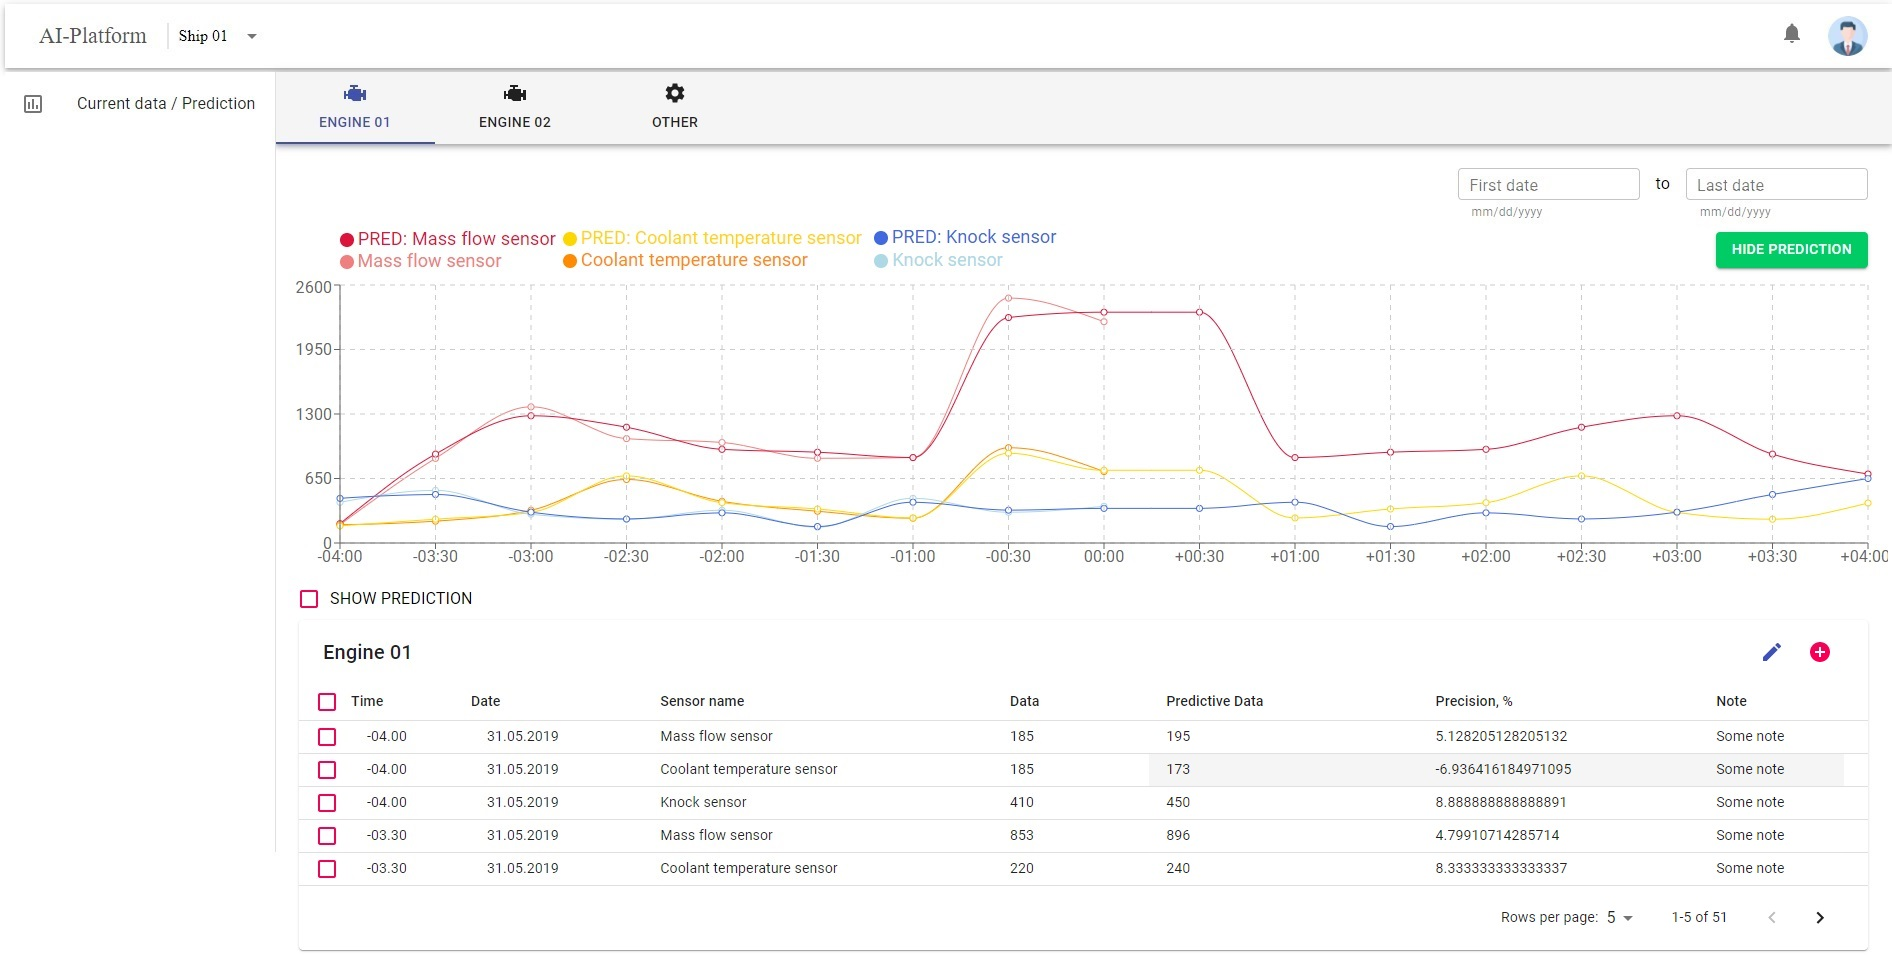
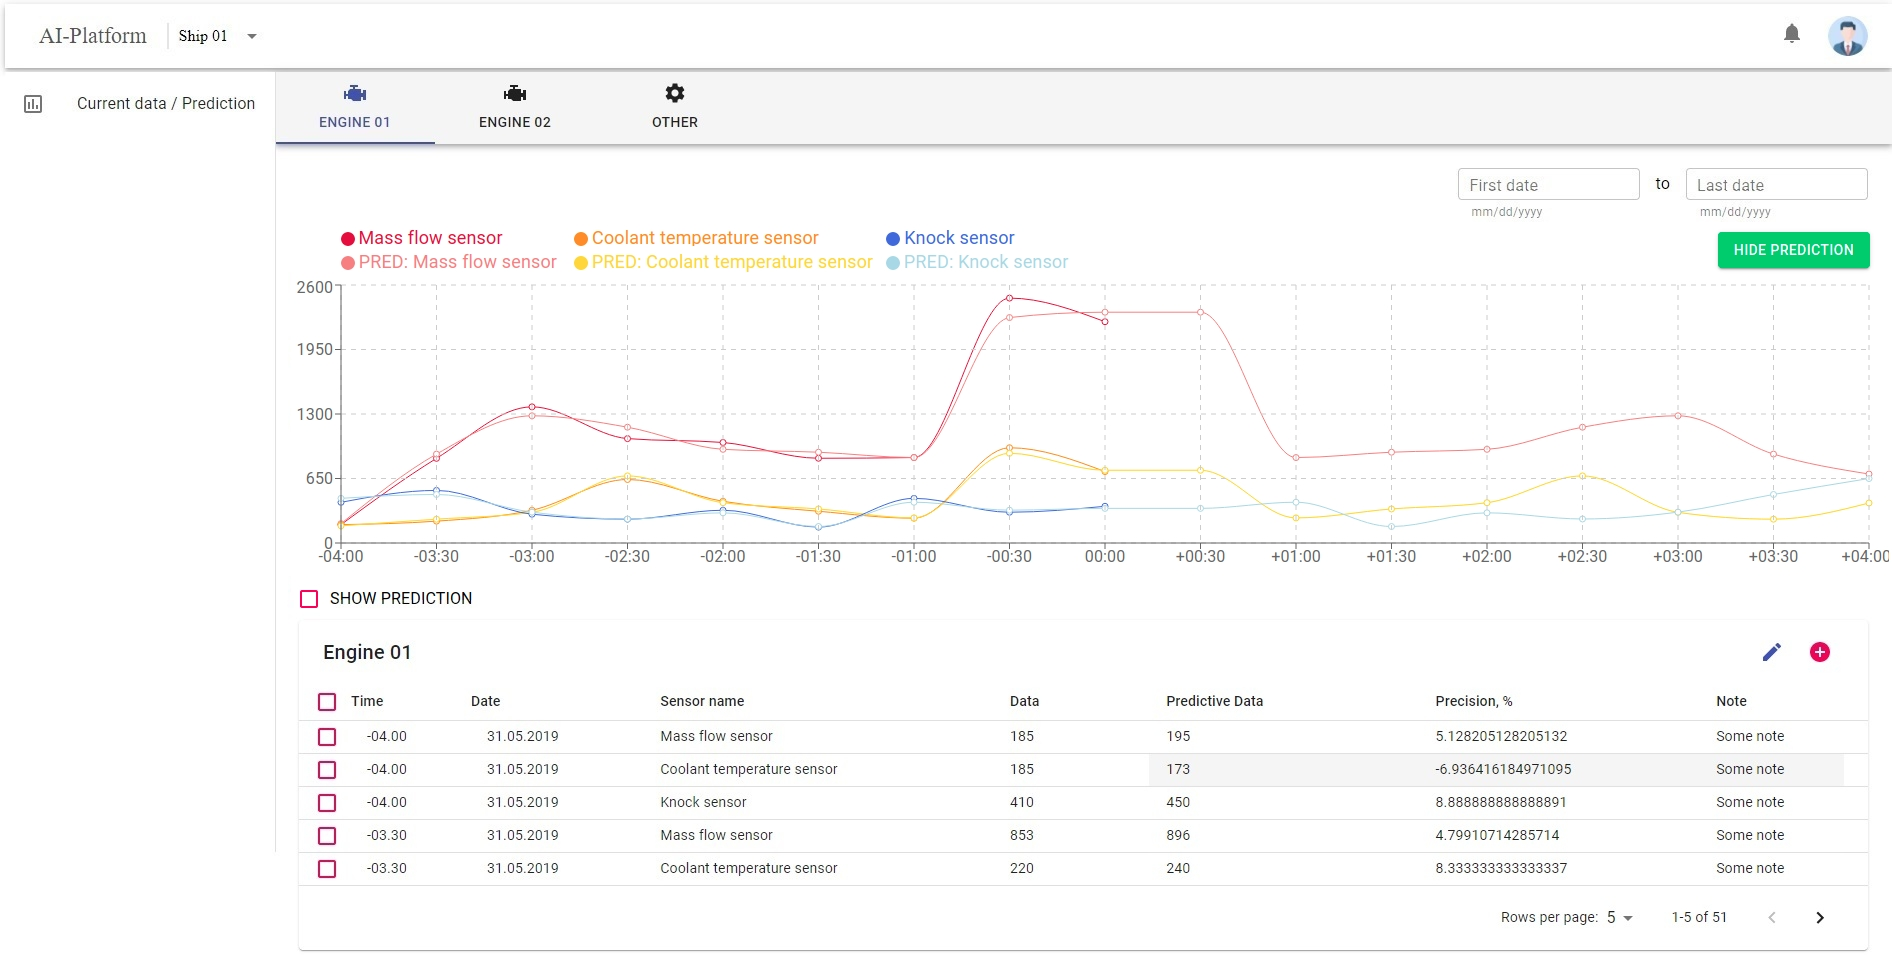
maket is worked

diff --git a/src/components/Main/Graph.js b/src/components/Main/Graph.js
@@ -57,7 +57,7 @@ const data = [
 
 const renderColorfulLegendText = (value, entry) => {
 	const {color} = entry;
-	console.log(value)
+	// console.log(value)
 
 	return <span
 		style={{color}}
@@ -69,25 +69,33 @@ const renderColorfulLegendText = (value, entry) => {
 
 export const Graph = () => (
 	<LineChart
-		label={"123"}
 		width={1608}
 		height={300}
 		data={data}
 		margin={{top: -20, right: 20, bottom: 5, left: 0}}
 	>
-		<Line type="monotone" dataKey={MFS} stroke="#F08080" />
-		<Line type="monotone" dataKey={MFS_PRED} stroke="#DC143C" />
+		{/*<Line type="monotone" dataKey={MFS} stroke="#F08080" />*/}
+		{/*<Line type="monotone" dataKey={MFS_PRED} stroke="#DC143C" />*/}
 
-		<Line type="monotone" dataKey={CTS} stroke="#FF8C00" />
-		<Line type="monotone" dataKey={CTS_PRED} stroke="#FFD700" />
+		{/*<Line type="monotone" dataKey={CTS} stroke="#FF8C00" />*/}
+		{/*<Line type="monotone" dataKey={CTS_PRED} stroke="#FFD700" />*/}
 
-		<Line type="monotone" dataKey={KS} stroke="#ADD8E6" />
-		<Line type="monotone" dataKey={KS_PRED} stroke="#4169E1" />
+		{/*<Line type="monotone" dataKey={KS} stroke="#ADD8E6" />*/}
+		{/*<Line type="monotone" dataKey={KS_PRED} stroke="#4169E1" />*/}
 
 
-		{/*<Line type="monotone" dataKey={MFS} stroke="#DC143C"/>*/}
-		{/*<Line type="monotone" dataKey={CTS} stroke="#FFD700"/>*/}
-		{/*<Line type="monotone" dataKey={KS} stroke="#4169E1"/>*/}
+		<Line type="monotone" dataKey={MFS} stroke="#DC143C"/>
+		<Line type="monotone" dataKey={MFS_PRED} stroke="#F08080"/>
+
+
+		<Line type="monotone" dataKey={CTS} stroke="#FF8C00"/>
+		<Line type="monotone" dataKey={CTS_PRED} stroke="#FFD700"/>
+
+
+		<Line type="monotone" dataKey={KS} stroke="#4169E1"/>
+		<Line type="monotone" dataKey={KS_PRED} stroke="#ADD8E6"/>
+
+
 		<CartesianGrid stroke="#ccc" strokeDasharray="5 5"/>
 		<XAxis dataKey="t"/>
 		<YAxis/>

diff --git a/src/components/Main/Prediction/DateRangePred.js b/src/components/Main/Prediction/DateRangePred.js
@@ -1,0 +1,54 @@
+import * as React from 'react';
+import TextField from '@material-ui/core/TextField';
+import DateRangePicker from '@material-ui/lab/DateRangePicker';
+import AdapterDateFns from '@material-ui/lab/AdapterDateFns';
+import LocalizationProvider from '@material-ui/lab/LocalizationProvider';
+import Box from '@material-ui/core/Box';
+import {makeStyles} from "@material-ui/core/styles";
+import {useRef} from "react";
+
+const useStyles = makeStyles((theme) => ({
+	test: {
+		background: "red",
+		fontSize: 42,
+		// top: 0,
+		// padding: 0,
+	}
+}));
+
+export const DateRangePred = () => {
+	const [value, setValue] = React.useState([null, null]);
+	const startText = "First dates";
+	const classes = useStyles();
+	return (
+		<LocalizationProvider dateAdapter={AdapterDateFns}>
+			<DateRangePicker
+
+				// startText="First date"
+				startText={startText}
+				endText="Last date"
+				calendars={3}
+				value={value}
+
+				onChange={(newValue) => {
+					setValue(newValue);
+				}}
+				renderInput={(startProps, endProps) => {
+					return (
+						<div style={{display: "flex",}}>
+							<TextField {...startProps} inputProps={{style: {fontSize: 28}}} />
+							<Box sx={{mx: 2}}> to </Box>
+							<TextField {...endProps} />
+						</div>
+
+						// <React.Fragment>
+						// 	<TextField style={{paddingRight: 0}} {...startProps} />
+						// 	<Box sx={{ mx: 2 }}> to </Box>
+						// 	<TextField {...endProps} />
+						// </React.Fragment>
+					)
+				}}
+			/>
+		</LocalizationProvider>
+	);
+}

diff --git a/src/components/Main/Prediction/TabsPred.js b/src/components/Main/Prediction/TabsPred.js
@@ -16,11 +16,11 @@ import Box from '@material-ui/core/Box';
 import {mdiEngine} from '@mdi/js';
 import Icon from "@mdi/react";
 import SettingsIcon from '@material-ui/icons/Settings';
-import {DateRangeR} from "../DateRange";
 import Button from '@material-ui/core/Button';
 import {Graph} from "../Graph";
 import {Checkbox, FormControlLabel} from "@material-ui/core";
 import {DevicesTablePred} from "./DevicesTablePred";
+import {DateRangePred} from "./DateRangePred";
 
 const EngineIcon = () => (
 	<Icon path={mdiEngine}
@@ -74,6 +74,10 @@ const useStyles = makeStyles((theme) => ({
 		backgroundColor: theme.palette.background.paper,
 		margin: "4px 0px 0px 270px",
 	},
+
+	test: {
+		background: "red",
+	}
 }));
 
 // export default function ScrollableTabsButtonForce() {
@@ -95,7 +99,7 @@ export const TabsPred = () => {
 				return (
 					<div style={{display: "flex", flexDirection: "column"}}>
 						<div style={{display: "flex", justifyContent: "flex-end"}}>
-							<DateRangeR/>
+							<DateRangePred/>
 						</div>
 
 						<div style={{

diff --git a/src/components/Main/Test.js b/src/components/Main/Test.js
@@ -1,0 +1,33 @@
+import * as React from 'react';
+import TextField from '@material-ui/core/TextField';
+import DateRangePicker from '@material-ui/lab/DateRangePicker';
+import AdapterDateFns from '@material-ui/lab/AdapterDateFns';
+import LocalizationProvider from '@material-ui/lab/LocalizationProvider';
+import Box from '@material-ui/core/Box';
+
+export const Test = () => {
+	const [value, setValue] = React.useState([null, null]);
+
+	return (
+		<LocalizationProvider dateAdapter={AdapterDateFns}>
+			<DateRangePicker
+				startText="First date"
+				endText="Last date"
+				calendars={3}
+				value={value}
+
+				onChange={(newValue) => {
+					setValue(newValue);
+				}}
+
+				renderInput={(startProps, endProps) => (
+					<div style={{display: "flex", }}>
+						<TextField {...startProps} />
+						<Box sx={{mx: 2}}> to </Box>
+						<TextField {...endProps} />
+					</div>
+				)}
+			/>
+		</LocalizationProvider>
+	);
+}

diff --git a/src/components/Main/Main.js b/src/components/Main/Main.js
@@ -1,14 +1,12 @@
 import React from "react"
 import {Header} from "./Header";
 import {MainDrawer} from "./MainDrawer";
-// import {NewTabs_02} from "./Prediction/Tabs_02";
 
 export const Main = () => {
     return (
         <div>
             <Header/>
             <MainDrawer/>
-            {/*<NewTabs_02 />*/}
         </div>
     )
 }

diff --git a/src/components/Main/Prediction/DevicesTablePred.js b/src/components/Main/Prediction/DevicesTablePred.js
@@ -819,9 +819,7 @@ const useStyles = makeStyles((theme) => ({
 export const DevicesTablePred = () => {
 	const rows = [];
 
-	tableData.map(d => rows.push(d))
-	console.log(rows)
-
+	tableData.map(d => rows.push(d));
 
 	const classes = useStyles();
 	const [order, setOrder] = React.useState('asc');
